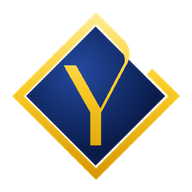
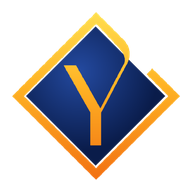
Replace the gold/yellow accents with a yellow-orange blend
- Theme accents: --gold #e8850f (orange) and --gold2 #ffb52e (warm
  yellow), with matching rgba tints, hover and skyline tones, on the
  home, admin and policy pages.
- Gold buttons, the Cart button and the stats strip use a yellow to
  orange gradient with navy text; the cart count badge is navy.
- Logo, About emblem, favicon/app icons and the share image are rebuilt
  with a yellow-to-orange gradient on the diamond, Y and tagline.

Claude-Session: https://claude.ai/code/session_019fR4sLVusZETjKJSMH7WGi

diff --git a/index.html b/index.html
@@ -123,7 +123,7 @@
 <link href="https://fonts.googleapis.com/css2?family=Playfair+Display:wght@500;600;700;800&family=Inter:wght@400;500;600;700&family=Tajawal:wght@400;500;700&family=El+Messiri:wght@500;600;700&display=swap" rel="stylesheet">
 <style>
 :root{
-  --green:#0d2352; --green2:#183a7a; --gold:#c8963e; --gold2:#e6b96a;
+  --green:#0d2352; --green2:#183a7a; --gold:#e8850f; --gold2:#ffb52e;
   --cream:#faf5ea; --sand:#f1e8d4; --ink:#1d1d1b; --muted:#6b675c; --white:#fff;
   --r:18px; --shadow:0 10px 30px rgba(13,35,82,.12);
 }
@@ -140,17 +140,17 @@ section{padding:84px 0}
 .lead{color:var(--muted);max-width:640px;font-size:17px}
 .center{text-align:center}.center .lead{margin:0 auto}
 .btn{display:inline-flex;align-items:center;gap:8px;padding:14px 28px;border-radius:999px;font-weight:600;font-size:15px;border:0;cursor:pointer;transition:.25s;font-family:inherit}
-.btn-gold{background:var(--gold);color:#fff}.btn-gold:hover{background:#b08330;transform:translateY(-2px)}
+.btn-gold{background:linear-gradient(135deg,#ffc93c 0%,#f7891f 100%);color:var(--green)}.btn-gold:hover{background:linear-gradient(135deg,#ffb52e,#e8750f);transform:translateY(-2px)}
 .btn-ghost{border:1.5px solid rgba(255,255,255,.55);color:#fff;background:transparent}.btn-ghost:hover{background:#fff;color:var(--green)}
 .btn-green{background:var(--green);color:#fff}.btn-green:hover{background:var(--green2)}
 
 /* top bar + nav */
 .topbar{background:var(--green);color:#e9e2cf;font-size:13px;padding:8px 0}
 .topbar .wrap{display:flex;justify-content:space-between;gap:12px;flex-wrap:wrap}
-header{position:sticky;top:0;z-index:50;background:rgba(7,18,42,.96);backdrop-filter:blur(12px);border-bottom:1px solid rgba(230,185,106,.25)}
-.logo{height:56px;width:auto;display:block;filter:drop-shadow(0 0 10px rgba(246,196,0,.22)) drop-shadow(0 2px 3px rgba(0,0,0,.35));transition:transform .3s,filter .3s}
+header{position:sticky;top:0;z-index:50;background:rgba(7,18,42,.96);backdrop-filter:blur(12px);border-bottom:1px solid rgba(255,181,46,.25)}
+.logo{height:56px;width:auto;display:block;filter:drop-shadow(0 0 10px rgba(255,170,30,.22)) drop-shadow(0 2px 3px rgba(0,0,0,.35));transition:transform .3s,filter .3s}
 .brand{position:relative;display:flex}
-.brand:hover .logo{transform:scale(1.04);filter:drop-shadow(0 0 14px rgba(246,196,0,.38)) drop-shadow(0 2px 3px rgba(0,0,0,.35))}
+.brand:hover .logo{transform:scale(1.04);filter:drop-shadow(0 0 14px rgba(255,170,30,.38)) drop-shadow(0 2px 3px rgba(0,0,0,.35))}
 .brand:after{content:"";position:absolute;inset:0;pointer-events:none;background:linear-gradient(105deg,transparent 40%,rgba(255,255,255,.7) 50%,transparent 60%) no-repeat;background-size:250% 100%;background-position:160% 0;
   -webkit-mask:url(images/logo.png) center/contain no-repeat;mask:url(images/logo.png) center/contain no-repeat;animation:logoShine 7s ease-in-out 1.2s infinite}
 @keyframes logoShine{0%{background-position:160% 0}22%,100%{background-position:-60% 0}}
@@ -165,30 +165,30 @@ nav ul{display:flex;gap:26px;list-style:none;align-items:center}
 nav a.link{font-size:14.5px;font-weight:500;color:#e9e2cf;position:relative}
 nav a.link:after{content:"";position:absolute;left:0;bottom:-6px;height:2px;width:0;background:var(--gold);transition:.25s}
 nav a.link:hover:after{width:100%}
-.cart-btn{position:relative;background:var(--gold);color:#fff;border:0;border-radius:999px;padding:10px 18px;font-weight:600;cursor:pointer;font-family:inherit;font-size:14px}
-.cart-btn span{position:absolute;top:-7px;right:-5px;background:var(--gold);color:#fff;font-size:11px;min-width:20px;height:20px;border-radius:20px;display:grid;place-items:center;padding:0 5px}
+.cart-btn{position:relative;background:linear-gradient(135deg,#ffc93c 0%,#f7891f 100%);color:var(--green);border:0;border-radius:999px;padding:10px 18px;font-weight:600;cursor:pointer;font-family:inherit;font-size:14px}
+.cart-btn span{position:absolute;top:-7px;right:-5px;background:var(--green);color:#fff;font-size:11px;min-width:20px;height:20px;border-radius:20px;display:grid;place-items:center;padding:0 5px}
 .burger{display:none;background:none;border:0;font-size:26px;cursor:pointer;color:#fff}
 
 /* hero */
 .hero{position:relative;background:radial-gradient(1200px 600px at 80% -10%,#2b4c94 0%,transparent 60%),linear-gradient(135deg,#0a1b3f,#0d2352 55%,#15306a);color:#fff;padding:100px 0 110px;overflow:hidden}
 .hero.has-photo{background:linear-gradient(100deg,rgba(7,20,48,.94) 0%,rgba(10,30,70,.86) 45%,rgba(13,35,82,.55) 100%),var(--hero-img) center/cover no-repeat}
 [dir=rtl] .hero.has-photo{background:linear-gradient(260deg,rgba(7,20,48,.94) 0%,rgba(10,30,70,.86) 45%,rgba(13,35,82,.55) 100%),var(--hero-img) center/cover no-repeat}
-.hero:before{content:"";position:absolute;inset:0;background-image:radial-gradient(rgba(230,185,106,.14) 1.2px,transparent 1.2px);background-size:26px 26px;mask-image:linear-gradient(to bottom,#000,transparent 85%)}
+.hero:before{content:"";position:absolute;inset:0;background-image:radial-gradient(rgba(255,181,46,.14) 1.2px,transparent 1.2px);background-size:26px 26px;mask-image:linear-gradient(to bottom,#000,transparent 85%)}
 .hero .wrap{position:relative;display:grid;grid-template-columns:1.15fr .85fr;gap:50px;align-items:center}
-.badge{display:inline-flex;gap:8px;align-items:center;border:1px solid rgba(230,185,106,.5);color:var(--gold2);padding:7px 16px;border-radius:999px;font-size:13px;font-weight:500;margin-bottom:22px}
+.badge{display:inline-flex;gap:8px;align-items:center;border:1px solid rgba(255,181,46,.5);color:var(--gold2);padding:7px 16px;border-radius:999px;font-size:13px;font-weight:500;margin-bottom:22px}
 .hero h1{font-size:clamp(38px,6vw,68px);font-weight:700;margin-bottom:20px}
 .hero h1 em{color:var(--gold2);font-style:italic}
 .hero p{color:#d8deea;font-size:18px;max-width:540px;margin-bottom:30px}
 .hero-cta{display:flex;gap:14px;flex-wrap:wrap}
-.hero-card{background:rgba(255,255,255,.07);border:1px solid rgba(230,185,106,.3);border-radius:28px;padding:30px;backdrop-filter:blur(8px)}
+.hero-card{background:rgba(255,255,255,.07);border:1px solid rgba(255,181,46,.3);border-radius:28px;padding:30px;backdrop-filter:blur(8px)}
 .hero-grid{display:grid;grid-template-columns:repeat(3,1fr);gap:14px}
 .hero-grid div{aspect-ratio:1;border-radius:18px;display:grid;place-items:center;font-size:44px;background:rgba(255,255,255,.08);transition:.3s}
-.hero-grid div:hover{transform:translateY(-5px) rotate(-3deg);background:rgba(230,185,106,.22)}
+.hero-grid div:hover{transform:translateY(-5px) rotate(-3deg);background:rgba(255,181,46,.22)}
 .hero-card p{margin:20px 0 0;font-size:14px;color:#cdd5e6}
 
 /* trust strip */
 .uae-bar{height:8px;background:linear-gradient(90deg,#ef3340 0 25%,#00843d 25% 50%,#fff 50% 75%,#111 75% 100%)}
-.strip{background:var(--gold);color:#fff}
+.strip{background:linear-gradient(135deg,#ffc93c 0%,#f7891f 100%);color:var(--green)}
 .strip .wrap{display:grid;grid-template-columns:repeat(4,1fr);gap:10px;padding-top:22px;padding-bottom:22px;text-align:center}
 .strip b{font-family:'Playfair Display';font-size:28px;display:block}
 .strip span{font-size:13px;letter-spacing:.06em;opacity:.95}
@@ -198,7 +198,7 @@ nav a.link:hover:after{width:100%}
 .about-art{background:linear-gradient(145deg,var(--green),var(--green2));border-radius:30px;padding:46px;color:#fff;position:relative;overflow:hidden;box-shadow:var(--shadow)}
 .about-art .big{font-family:'Playfair Display';font-size:110px;line-height:1;color:var(--gold2);font-weight:800}
 .about-art p{color:#d8deea}
-.about-art:after{content:"";position:absolute;top:30px;right:40px;width:124px;height:124px;background:url(images/logo-mark.png) center/contain no-repeat;filter:drop-shadow(0 0 18px rgba(246,196,0,.25)) drop-shadow(0 8px 14px rgba(0,0,0,.3));pointer-events:none}
+.about-art:after{content:"";position:absolute;top:30px;right:40px;width:124px;height:124px;background:url(images/logo-mark.png) center/contain no-repeat;filter:drop-shadow(0 0 18px rgba(255,170,30,.25)) drop-shadow(0 8px 14px rgba(0,0,0,.3));pointer-events:none}
 [dir=rtl] .about-art:after{right:auto;left:40px}
 @media(max-width:520px){.about-art:after{top:18px;right:18px;width:62px;height:62px}[dir=rtl] .about-art:after{left:18px}.about-art .big{font-size:92px}}
 .about-art>*{position:relative;z-index:1}
@@ -254,11 +254,11 @@ nav a.link:hover:after{width:100%}
 @media(prefers-reduced-motion:reduce){.delivery-scene .van{animation:none;left:58%}.delivery-scene .bike{animation:none;left:18%}.delivery-scene .wheel{animation:none}}
 .delivery .title{color:#fff}.delivery .lead{color:#c8d1e3}
 .steps{display:grid;grid-template-columns:repeat(4,1fr);gap:20px;margin-top:44px}
-.step{background:rgba(255,255,255,.07);border:1px solid rgba(230,185,106,.25);border-radius:var(--r);padding:26px}
+.step{background:rgba(255,255,255,.07);border:1px solid rgba(255,181,46,.25);border-radius:var(--r);padding:26px}
 .step b{font-family:'Playfair Display';font-size:34px;color:var(--gold2);display:block}
 .step h4{font-size:18px;margin:6px 0}.step p{font-size:14px;color:#c8d1e3}
 .emirates{display:flex;flex-wrap:wrap;gap:10px;justify-content:center;margin-top:34px}
-.emirates span{border:1px solid rgba(230,185,106,.5);color:var(--gold2);padding:8px 18px;border-radius:999px;font-size:14px}
+.emirates span{border:1px solid rgba(255,181,46,.5);color:var(--gold2);padding:8px 18px;border-radius:999px;font-size:14px}
 
 /* contact */
 .contact{display:grid;grid-template-columns:1fr 1fr;gap:34px;margin-top:44px}
@@ -451,7 +451,7 @@ footer .cp{padding-top:20px;text-align:center;font-size:13px}
   <div class="emirates"><span data-ar="أبوظبي">Abu Dhabi</span><span data-ar="دبي">Dubai</span><span data-ar="الشارقة">Sharjah</span><span data-ar="عجمان">Ajman</span><span data-ar="أم القيوين">Umm Al Quwain</span><span data-ar="رأس الخيمة">Ras Al Khaimah</span><span data-ar="الفجيرة">Fujairah</span></div>
   <p style="margin-top:28px;color:#c8d1e3;font-size:14px" data-ar="توصيل مجاني للطلبات فوق &lt;span id=&quot;freeMin&quot;&gt;&lt;/span&gt; درهم · الدفع عند الاستلام متاح">Free delivery on orders above AED <span id="freeMin"></span> · Cash on delivery available</p>
 </div>
-<div class="delivery-scene"><svg class="sky" viewBox="0 0 1440 240" preserveAspectRatio="xMidYMax slice" aria-hidden="true"><g fill="#27355a"><rect x="0" y="141" width="46" height="59" rx="2"/><rect x="48" y="92" width="30" height="108" rx="2"/><rect x="61.5" y="78" width="3" height="14"/><rect x="80" y="133" width="58" height="67" rx="2"/><rect x="107.5" y="119" width="3" height="14"/><rect x="146" y="152" width="52" height="48" rx="2"/><rect x="170.5" y="138" width="3" height="14"/><rect x="208" y="153" width="53" height="47" rx="2"/><rect x="264" y="80" width="40" height="120" rx="2"/><rect x="306" y="154" width="51" height="46" rx="2"/><rect x="359" y="123" width="34" height="77" rx="2"/><rect x="403" y="87" width="33" height="113" rx="2"/><rect x="440" y="86" width="32" height="114" rx="2"/><rect x="477" y="148" width="49" height="52" rx="2"/><rect x="529" y="81" width="29" height="119" rx="2"/><rect x="542.0" y="67" width="3" height="14"/><rect x="568" y="120" width="53" height="80" rx="2"/><rect x="630" y="122" width="49" height="78" rx="2"/><rect x="653.0" y="108" width="3" height="14"/><rect x="683" y="150" width="41" height="50" rx="2"/><rect x="734" y="117" width="57" height="83" rx="2"/><rect x="797" y="145" width="30" height="55" rx="2"/><rect x="831" y="141" width="47" height="59" rx="2"/><rect x="886" y="151" width="28" height="49" rx="2"/><rect x="921" y="116" width="47" height="84" rx="2"/><rect x="977" y="149" width="30" height="51" rx="2"/><rect x="1016" y="153" width="30" height="47" rx="2"/><rect x="1052" y="124" width="54" height="76" rx="2"/><rect x="1113" y="101" width="27" height="99" rx="2"/><rect x="1143" y="153" width="57" height="47" rx="2"/><rect x="1170.0" y="139" width="3" height="14"/><rect x="1206" y="129" width="34" height="71" rx="2"/><rect x="1249" y="139" width="31" height="61" rx="2"/><rect x="1290" y="143" width="43" height="57" rx="2"/><rect x="1343" y="107" width="43" height="93" rx="2"/><rect x="1394" y="141" width="40" height="59" rx="2"/><rect x="1412.5" y="127" width="3" height="14"/><rect x="1438" y="131" width="40" height="69" rx="2"/><rect x="1456.5" y="117" width="3" height="14"/></g><g fill="#8a7a52"><g><title>Qasr Al Hosn</title><rect x="78" y="150" width="140" height="50"/><rect x="80" y="143" width="6" height="7"/><rect x="90" y="143" width="6" height="7"/><rect x="100" y="143" width="6" height="7"/><rect x="110" y="143" width="6" height="7"/><rect x="120" y="143" width="6" height="7"/><rect x="130" y="143" width="6" height="7"/><rect x="140" y="143" width="6" height="7"/><rect x="150" y="143" width="6" height="7"/><rect x="160" y="143" width="6" height="7"/><rect x="170" y="143" width="6" height="7"/><rect x="180" y="143" width="6" height="7"/><rect x="190" y="143" width="6" height="7"/><rect x="200" y="143" width="6" height="7"/><rect x="210" y="143" width="6" height="7"/><rect x="64" y="112" width="36" height="88" rx="16"/><rect x="66" y="105" width="5" height="7"/><rect x="74" y="105" width="5" height="7"/><rect x="82" y="105" width="5" height="7"/><rect x="90" y="105" width="5" height="7"/><rect x="184" y="98" width="38" height="102"/><rect x="184" y="90" width="6" height="8"/><rect x="193" y="90" width="6" height="8"/><rect x="202" y="90" width="6" height="8"/><rect x="211" y="90" width="6" height="8"/><rect x="134" y="168" width="22" height="32" rx="11" fill="#0b1d44"/></g><g><title>Sheikh Zayed Grand Mosque</title><rect x="282" y="160" width="176" height="40"/><ellipse cx="370" cy="150" rx="44" ry="40"/><rect x="368" y="96" width="4" height="16"/><circle cx="370" cy="96" r="3"/><ellipse cx="318" cy="160" rx="20" ry="18"/><rect x="316.5" y="132" width="3" height="10"/><ellipse cx="422" cy="160" rx="20" ry="18"/><rect x="420.5" y="132" width="3" height="10"/><rect x="268" y="72" width="9" height="128"/><rect x="266" y="96" width="13" height="5"/><rect x="266" y="130" width="13" height="5"/><path d="M268 72 L272.5 56 L277 72 Z"/><rect x="466" y="72" width="9" height="128"/><rect x="464" y="96" width="13" height="5"/><rect x="464" y="130" width="13" height="5"/><path d="M466 72 L470.5 56 L475 72 Z"/></g><g><title>Louvre Abu Dhabi</title><path d="M496 182 Q568 132 640 182 Z"/><rect x="520" y="182" width="96" height="18"/><rect x="566" y="182" width="4" height="18" fill="#0b1d44"/></g><g><title>Etihad Towers</title><path d="M662 200 V126 Q673 102 684 118 V200 Z"/><path d="M690 200 V100 Q701 76 712 92 V200 Z"/><path d="M718 200 V114 Q729 90 740 106 V200 Z"/><path d="M744 200 V134 Q755 110 766 126 V200 Z"/></g><g><title>Burj Khalifa</title><polygon points="810,6 812,34 815,58 818,82 823,110 828,136 834,160 840,182 846,200 774,200 780,182 786,160 792,136 797,110 802,82 805,58 808,34"/></g><g><title>Dubai Frame</title><path fill-rule="evenodd" d="M872 86 H948 V200 H872 Z M887 102 H933 V200 H887 Z"/><rect x="872" y="86" width="76" height="10"/></g><g><title>Museum of the Future</title><path fill-rule="evenodd" d="M970 160 a46 44 0 1 0 92 0 a46 44 0 1 0 -92 0 Z M998 156 a20 25 0 1 0 40 0 a20 25 0 1 0 -40 0 Z"/><rect x="984" y="190" width="64" height="10"/></g><g><title>Burj Al Arab</title><path d="M1102 200 V64 Q1186 104 1172 200 Z"/><rect x="1099" y="50" width="4" height="150"/><rect x="1152" y="128" width="26" height="4" rx="2"/></g><g><title>Palm trees</title><path d="M1222 200 Q1226 161.0 1224 122" stroke="#8a7a52" stroke-width="5" fill="none"/><path d="M1224 122 Q1211.0 122 1198 140" stroke="#8a7a52" stroke-width="4.5" fill="none" stroke-linecap="round"/><path d="M1224 122 Q1214.0 106 1204 124" stroke="#8a7a52" stroke-width="4.5" fill="none" stroke-linecap="round"/><path d="M1224 122 Q1224.0 98 1224 116" stroke="#8a7a52" stroke-width="4.5" fill="none" stroke-linecap="round"/><path d="M1224 122 Q1234.0 106 1244 124" stroke="#8a7a52" stroke-width="4.5" fill="none" stroke-linecap="round"/><path d="M1224 122 Q1237.0 122 1250 140" stroke="#8a7a52" stroke-width="4.5" fill="none" stroke-linecap="round"/><path d="M1262 200 Q1266 170.0 1264 140" stroke="#8a7a52" stroke-width="5" fill="none"/><path d="M1264 140 Q1251.0 140 1238 158" stroke="#8a7a52" stroke-width="4.5" fill="none" stroke-linecap="round"/><path d="M1264 140 Q1254.0 124 1244 142" stroke="#8a7a52" stroke-width="4.5" fill="none" stroke-linecap="round"/><path d="M1264 140 Q1264.0 116 1264 134" stroke="#8a7a52" stroke-width="4.5" fill="none" stroke-linecap="round"/><path d="M1264 140 Q1274.0 124 1284 142" stroke="#8a7a52" stroke-width="4.5" fill="none" stroke-linecap="round"/><path d="M1264 140 Q1277.0 140 1290 158" stroke="#8a7a52" stroke-width="4.5" fill="none" stroke-linecap="round"/><path d="M1388 200 Q1392 158.0 1390 116" stroke="#8a7a52" stroke-width="5" fill="none"/><path d="M1390 116 Q1377.0 116 1364 134" stroke="#8a7a52" stroke-width="4.5" fill="none" stroke-linecap="round"/><path d="M1390 116 Q1380.0 100 1370 118" stroke="#8a7a52" stroke-width="4.5" fill="none" stroke-linecap="round"/><path d="M1390 116 Q1390.0 92 1390 110" stroke="#8a7a52" stroke-width="4.5" fill="none" stroke-linecap="round"/><path d="M1390 116 Q1400.0 100 1410 118" stroke="#8a7a52" stroke-width="4.5" fill="none" stroke-linecap="round"/><path d="M1390 116 Q1403.0 116 1416 134" stroke="#8a7a52" stroke-width="4.5" fill="none" stroke-linecap="round"/></g><g><title>Mosque</title><rect x="1296" y="170" width="64" height="30"/><ellipse cx="1328" cy="168" rx="24" ry="22"/><rect x="1370" y="110" width="7" height="90"/><path d="M1370 110 L1373.5 98 L1377 110 Z"/></g></g><rect x="0" y="200" width="1440" height="40" fill="rgba(0,0,0,.28)"/><rect x="0" y="200" width="1440" height="2" fill="rgba(230,185,106,.55)"/><line x1="0" y1="220" x2="1440" y2="220" stroke="rgba(255,255,255,.35)" stroke-width="2" stroke-dasharray="26 18"/></svg><svg class="bike" viewBox="0 0 110 80" aria-label="Delivery motorbike" role="img"><ellipse cx="55" cy="75" rx="46" ry="3.5" fill="rgba(0,0,0,.22)"/><rect x="10" y="22" width="34" height="28" rx="4" fill="#e6b96a"/><rect x="10" y="22" width="34" height="6" rx="3" fill="#c8963e"/><path d="M12 36 h30" stroke="#0b1f4b" stroke-width="2"/><path d="M30 58 L48 52 H72 L82 40 L90 42 L84 58 Z" fill="#0b1f4b"/><path d="M80 40 L86 26" stroke="#333" stroke-width="3" stroke-linecap="round"/><path d="M82 26 h9" stroke="#333" stroke-width="3" stroke-linecap="round"/><path d="M52 52 L58 32 L66 30 L70 44 Z" fill="#fffdf6"/><circle cx="62" cy="22" r="8" fill="#e6b96a"/><path d="M55 21 a7 7 0 0 1 14 0" fill="#0d2352"/><path d="M66 32 L80 36" stroke="#fffdf6" stroke-width="4" stroke-linecap="round"/><g class="wheel"><circle cx="28" cy="64" r="10" fill="#1b1b1b"/><circle cx="28" cy="64" r="5.0" fill="#c9c9c9"/><rect x="27" y="59.0" width="2" height="10.0" fill="#777"/><rect x="23.0" y="63" width="10.0" height="2" fill="#777"/></g><g class="wheel"><circle cx="86" cy="64" r="10" fill="#1b1b1b"/><circle cx="86" cy="64" r="5.0" fill="#c9c9c9"/><rect x="85" y="59.0" width="2" height="10.0" fill="#777"/><rect x="81.0" y="63" width="10.0" height="2" fill="#777"/></g></svg><svg class="van" viewBox="0 0 170 80" aria-label="Younus delivery van" role="img"><ellipse cx="86" cy="74" rx="78" ry="4" fill="rgba(0,0,0,.25)"/><rect x="4" y="6" width="112" height="54" rx="6" fill="#fffdf6"/><rect x="4" y="40" width="112" height="7" fill="#e6b96a"/><rect x="4" y="47" width="112" height="3" fill="#0b1f4b"/><path d="M116 18 H140 Q150 18 155 30 L163 44 Q166 48 166 54 V60 H116 Z" fill="#fffdf6"/><path d="M121 23 H139 Q145 23 148 30 L153 40 H121 Z" fill="#9fd3e8"/><rect x="116" y="40" width="50" height="7" fill="#e6b96a"/><rect x="116" y="47" width="50" height="3" fill="#0b1f4b"/><rect x="158" y="48" width="8" height="5" rx="2" fill="#ffd54a"/><rect x="2" y="46" width="4" height="7" rx="1" fill="#e2483d"/><g transform="translate(16 14)"><path d="M11 0 L22 11 L11 22 L0 11 Z" fill="#0b1f4b" stroke="#f6c400" stroke-width="2.4"/><path d="M7 6 L11 12 L15 6 M11 12 V17" stroke="#f6c400" stroke-width="2.2" fill="none"/></g><text x="77" y="28" text-anchor="middle" textLength="64" lengthAdjust="spacingAndGlyphs" font-family="Playfair Display,Georgia,serif" font-weight="700" font-size="15" fill="#0d2352">YOUNUS</text><text x="77" y="37" text-anchor="middle" textLength="64" lengthAdjust="spacingAndGlyphs" font-family="Inter,sans-serif" font-weight="600" font-size="6.5" fill="#6b675c">FOODSTUFF TRADING</text><g class="wheel"><circle cx="34" cy="62" r="11" fill="#1b1b1b"/><circle cx="34" cy="62" r="5.5" fill="#c9c9c9"/><rect x="33" y="56.5" width="2" height="11.0" fill="#777"/><rect x="28.5" y="61" width="11.0" height="2" fill="#777"/></g><g class="wheel"><circle cx="138" cy="62" r="11" fill="#1b1b1b"/><circle cx="138" cy="62" r="5.5" fill="#c9c9c9"/><rect x="137" y="56.5" width="2" height="11.0" fill="#777"/><rect x="132.5" y="61" width="11.0" height="2" fill="#777"/></g></svg></div>
+<div class="delivery-scene"><svg class="sky" viewBox="0 0 1440 240" preserveAspectRatio="xMidYMax slice" aria-hidden="true"><g fill="#27355a"><rect x="0" y="141" width="46" height="59" rx="2"/><rect x="48" y="92" width="30" height="108" rx="2"/><rect x="61.5" y="78" width="3" height="14"/><rect x="80" y="133" width="58" height="67" rx="2"/><rect x="107.5" y="119" width="3" height="14"/><rect x="146" y="152" width="52" height="48" rx="2"/><rect x="170.5" y="138" width="3" height="14"/><rect x="208" y="153" width="53" height="47" rx="2"/><rect x="264" y="80" width="40" height="120" rx="2"/><rect x="306" y="154" width="51" height="46" rx="2"/><rect x="359" y="123" width="34" height="77" rx="2"/><rect x="403" y="87" width="33" height="113" rx="2"/><rect x="440" y="86" width="32" height="114" rx="2"/><rect x="477" y="148" width="49" height="52" rx="2"/><rect x="529" y="81" width="29" height="119" rx="2"/><rect x="542.0" y="67" width="3" height="14"/><rect x="568" y="120" width="53" height="80" rx="2"/><rect x="630" y="122" width="49" height="78" rx="2"/><rect x="653.0" y="108" width="3" height="14"/><rect x="683" y="150" width="41" height="50" rx="2"/><rect x="734" y="117" width="57" height="83" rx="2"/><rect x="797" y="145" width="30" height="55" rx="2"/><rect x="831" y="141" width="47" height="59" rx="2"/><rect x="886" y="151" width="28" height="49" rx="2"/><rect x="921" y="116" width="47" height="84" rx="2"/><rect x="977" y="149" width="30" height="51" rx="2"/><rect x="1016" y="153" width="30" height="47" rx="2"/><rect x="1052" y="124" width="54" height="76" rx="2"/><rect x="1113" y="101" width="27" height="99" rx="2"/><rect x="1143" y="153" width="57" height="47" rx="2"/><rect x="1170.0" y="139" width="3" height="14"/><rect x="1206" y="129" width="34" height="71" rx="2"/><rect x="1249" y="139" width="31" height="61" rx="2"/><rect x="1290" y="143" width="43" height="57" rx="2"/><rect x="1343" y="107" width="43" height="93" rx="2"/><rect x="1394" y="141" width="40" height="59" rx="2"/><rect x="1412.5" y="127" width="3" height="14"/><rect x="1438" y="131" width="40" height="69" rx="2"/><rect x="1456.5" y="117" width="3" height="14"/></g><g fill="#a07a3e"><g><title>Qasr Al Hosn</title><rect x="78" y="150" width="140" height="50"/><rect x="80" y="143" width="6" height="7"/><rect x="90" y="143" width="6" height="7"/><rect x="100" y="143" width="6" height="7"/><rect x="110" y="143" width="6" height="7"/><rect x="120" y="143" width="6" height="7"/><rect x="130" y="143" width="6" height="7"/><rect x="140" y="143" width="6" height="7"/><rect x="150" y="143" width="6" height="7"/><rect x="160" y="143" width="6" height="7"/><rect x="170" y="143" width="6" height="7"/><rect x="180" y="143" width="6" height="7"/><rect x="190" y="143" width="6" height="7"/><rect x="200" y="143" width="6" height="7"/><rect x="210" y="143" width="6" height="7"/><rect x="64" y="112" width="36" height="88" rx="16"/><rect x="66" y="105" width="5" height="7"/><rect x="74" y="105" width="5" height="7"/><rect x="82" y="105" width="5" height="7"/><rect x="90" y="105" width="5" height="7"/><rect x="184" y="98" width="38" height="102"/><rect x="184" y="90" width="6" height="8"/><rect x="193" y="90" width="6" height="8"/><rect x="202" y="90" width="6" height="8"/><rect x="211" y="90" width="6" height="8"/><rect x="134" y="168" width="22" height="32" rx="11" fill="#0b1d44"/></g><g><title>Sheikh Zayed Grand Mosque</title><rect x="282" y="160" width="176" height="40"/><ellipse cx="370" cy="150" rx="44" ry="40"/><rect x="368" y="96" width="4" height="16"/><circle cx="370" cy="96" r="3"/><ellipse cx="318" cy="160" rx="20" ry="18"/><rect x="316.5" y="132" width="3" height="10"/><ellipse cx="422" cy="160" rx="20" ry="18"/><rect x="420.5" y="132" width="3" height="10"/><rect x="268" y="72" width="9" height="128"/><rect x="266" y="96" width="13" height="5"/><rect x="266" y="130" width="13" height="5"/><path d="M268 72 L272.5 56 L277 72 Z"/><rect x="466" y="72" width="9" height="128"/><rect x="464" y="96" width="13" height="5"/><rect x="464" y="130" width="13" height="5"/><path d="M466 72 L470.5 56 L475 72 Z"/></g><g><title>Louvre Abu Dhabi</title><path d="M496 182 Q568 132 640 182 Z"/><rect x="520" y="182" width="96" height="18"/><rect x="566" y="182" width="4" height="18" fill="#0b1d44"/></g><g><title>Etihad Towers</title><path d="M662 200 V126 Q673 102 684 118 V200 Z"/><path d="M690 200 V100 Q701 76 712 92 V200 Z"/><path d="M718 200 V114 Q729 90 740 106 V200 Z"/><path d="M744 200 V134 Q755 110 766 126 V200 Z"/></g><g><title>Burj Khalifa</title><polygon points="810,6 812,34 815,58 818,82 823,110 828,136 834,160 840,182 846,200 774,200 780,182 786,160 792,136 797,110 802,82 805,58 808,34"/></g><g><title>Dubai Frame</title><path fill-rule="evenodd" d="M872 86 H948 V200 H872 Z M887 102 H933 V200 H887 Z"/><rect x="872" y="86" width="76" height="10"/></g><g><title>Museum of the Future</title><path fill-rule="evenodd" d="M970 160 a46 44 0 1 0 92 0 a46 44 0 1 0 -92 0 Z M998 156 a20 25 0 1 0 40 0 a20 25 0 1 0 -40 0 Z"/><rect x="984" y="190" width="64" height="10"/></g><g><title>Burj Al Arab</title><path d="M1102 200 V64 Q1186 104 1172 200 Z"/><rect x="1099" y="50" width="4" height="150"/><rect x="1152" y="128" width="26" height="4" rx="2"/></g><g><title>Palm trees</title><path d="M1222 200 Q1226 161.0 1224 122" stroke="#a07a3e" stroke-width="5" fill="none"/><path d="M1224 122 Q1211.0 122 1198 140" stroke="#a07a3e" stroke-width="4.5" fill="none" stroke-linecap="round"/><path d="M1224 122 Q1214.0 106 1204 124" stroke="#a07a3e" stroke-width="4.5" fill="none" stroke-linecap="round"/><path d="M1224 122 Q1224.0 98 1224 116" stroke="#a07a3e" stroke-width="4.5" fill="none" stroke-linecap="round"/><path d="M1224 122 Q1234.0 106 1244 124" stroke="#a07a3e" stroke-width="4.5" fill="none" stroke-linecap="round"/><path d="M1224 122 Q1237.0 122 1250 140" stroke="#a07a3e" stroke-width="4.5" fill="none" stroke-linecap="round"/><path d="M1262 200 Q1266 170.0 1264 140" stroke="#a07a3e" stroke-width="5" fill="none"/><path d="M1264 140 Q1251.0 140 1238 158" stroke="#a07a3e" stroke-width="4.5" fill="none" stroke-linecap="round"/><path d="M1264 140 Q1254.0 124 1244 142" stroke="#a07a3e" stroke-width="4.5" fill="none" stroke-linecap="round"/><path d="M1264 140 Q1264.0 116 1264 134" stroke="#a07a3e" stroke-width="4.5" fill="none" stroke-linecap="round"/><path d="M1264 140 Q1274.0 124 1284 142" stroke="#a07a3e" stroke-width="4.5" fill="none" stroke-linecap="round"/><path d="M1264 140 Q1277.0 140 1290 158" stroke="#a07a3e" stroke-width="4.5" fill="none" stroke-linecap="round"/><path d="M1388 200 Q1392 158.0 1390 116" stroke="#a07a3e" stroke-width="5" fill="none"/><path d="M1390 116 Q1377.0 116 1364 134" stroke="#a07a3e" stroke-width="4.5" fill="none" stroke-linecap="round"/><path d="M1390 116 Q1380.0 100 1370 118" stroke="#a07a3e" stroke-width="4.5" fill="none" stroke-linecap="round"/><path d="M1390 116 Q1390.0 92 1390 110" stroke="#a07a3e" stroke-width="4.5" fill="none" stroke-linecap="round"/><path d="M1390 116 Q1400.0 100 1410 118" stroke="#a07a3e" stroke-width="4.5" fill="none" stroke-linecap="round"/><path d="M1390 116 Q1403.0 116 1416 134" stroke="#a07a3e" stroke-width="4.5" fill="none" stroke-linecap="round"/></g><g><title>Mosque</title><rect x="1296" y="170" width="64" height="30"/><ellipse cx="1328" cy="168" rx="24" ry="22"/><rect x="1370" y="110" width="7" height="90"/><path d="M1370 110 L1373.5 98 L1377 110 Z"/></g></g><rect x="0" y="200" width="1440" height="40" fill="rgba(0,0,0,.28)"/><rect x="0" y="200" width="1440" height="2" fill="rgba(255,181,46,.55)"/><line x1="0" y1="220" x2="1440" y2="220" stroke="rgba(255,255,255,.35)" stroke-width="2" stroke-dasharray="26 18"/></svg><svg class="bike" viewBox="0 0 110 80" aria-label="Delivery motorbike" role="img"><ellipse cx="55" cy="75" rx="46" ry="3.5" fill="rgba(0,0,0,.22)"/><rect x="10" y="22" width="34" height="28" rx="4" fill="#ffb52e"/><rect x="10" y="22" width="34" height="6" rx="3" fill="#e8850f"/><path d="M12 36 h30" stroke="#0b1f4b" stroke-width="2"/><path d="M30 58 L48 52 H72 L82 40 L90 42 L84 58 Z" fill="#0b1f4b"/><path d="M80 40 L86 26" stroke="#333" stroke-width="3" stroke-linecap="round"/><path d="M82 26 h9" stroke="#333" stroke-width="3" stroke-linecap="round"/><path d="M52 52 L58 32 L66 30 L70 44 Z" fill="#fffdf6"/><circle cx="62" cy="22" r="8" fill="#ffb52e"/><path d="M55 21 a7 7 0 0 1 14 0" fill="#0d2352"/><path d="M66 32 L80 36" stroke="#fffdf6" stroke-width="4" stroke-linecap="round"/><g class="wheel"><circle cx="28" cy="64" r="10" fill="#1b1b1b"/><circle cx="28" cy="64" r="5.0" fill="#c9c9c9"/><rect x="27" y="59.0" width="2" height="10.0" fill="#777"/><rect x="23.0" y="63" width="10.0" height="2" fill="#777"/></g><g class="wheel"><circle cx="86" cy="64" r="10" fill="#1b1b1b"/><circle cx="86" cy="64" r="5.0" fill="#c9c9c9"/><rect x="85" y="59.0" width="2" height="10.0" fill="#777"/><rect x="81.0" y="63" width="10.0" height="2" fill="#777"/></g></svg><svg class="van" viewBox="0 0 170 80" aria-label="Younus delivery van" role="img"><ellipse cx="86" cy="74" rx="78" ry="4" fill="rgba(0,0,0,.25)"/><rect x="4" y="6" width="112" height="54" rx="6" fill="#fffdf6"/><rect x="4" y="40" width="112" height="7" fill="#ffb52e"/><rect x="4" y="47" width="112" height="3" fill="#0b1f4b"/><path d="M116 18 H140 Q150 18 155 30 L163 44 Q166 48 166 54 V60 H116 Z" fill="#fffdf6"/><path d="M121 23 H139 Q145 23 148 30 L153 40 H121 Z" fill="#9fd3e8"/><rect x="116" y="40" width="50" height="7" fill="#ffb52e"/><rect x="116" y="47" width="50" height="3" fill="#0b1f4b"/><rect x="158" y="48" width="8" height="5" rx="2" fill="#ffd54a"/><rect x="2" y="46" width="4" height="7" rx="1" fill="#e2483d"/><g transform="translate(16 14)"><path d="M11 0 L22 11 L11 22 L0 11 Z" fill="#0b1f4b" stroke="#ffb800" stroke-width="2.4"/><path d="M7 6 L11 12 L15 6 M11 12 V17" stroke="#ffb800" stroke-width="2.2" fill="none"/></g><text x="77" y="28" text-anchor="middle" textLength="64" lengthAdjust="spacingAndGlyphs" font-family="Playfair Display,Georgia,serif" font-weight="700" font-size="15" fill="#0d2352">YOUNUS</text><text x="77" y="37" text-anchor="middle" textLength="64" lengthAdjust="spacingAndGlyphs" font-family="Inter,sans-serif" font-weight="600" font-size="6.5" fill="#6b675c">FOODSTUFF TRADING</text><g class="wheel"><circle cx="34" cy="62" r="11" fill="#1b1b1b"/><circle cx="34" cy="62" r="5.5" fill="#c9c9c9"/><rect x="33" y="56.5" width="2" height="11.0" fill="#777"/><rect x="28.5" y="61" width="11.0" height="2" fill="#777"/></g><g class="wheel"><circle cx="138" cy="62" r="11" fill="#1b1b1b"/><circle cx="138" cy="62" r="5.5" fill="#c9c9c9"/><rect x="137" y="56.5" width="2" height="11.0" fill="#777"/><rect x="132.5" y="61" width="11.0" height="2" fill="#777"/></g></svg></div>
 </section>
 
 <section id="contact"><div class="wrap">

diff --git a/admin/index.html b/admin/index.html
@@ -12,7 +12,7 @@
 <link href="https://fonts.googleapis.com/css2?family=Inter:wght@400;500;600;700&family=Tajawal:wght@400;500;700&display=swap" rel="stylesheet">
 <style>
 :root{
-  --green:#0d2352; --green2:#183a7a; --gold:#c8963e; --gold2:#e6b96a;
+  --green:#0d2352; --green2:#183a7a; --gold:#e8850f; --gold2:#ffb52e;
   --cream:#faf5ea; --sand:#f1e8d4; --ink:#1d1d1b; --muted:#6b675c; --line:#e5dabf;
   --red:#a33a2a; --white:#fff; --r:14px;
 }
@@ -27,7 +27,7 @@ button,input,select,textarea{font:inherit}
 .top .right{display:flex;gap:8px;align-items:center}
 .btn{display:inline-flex;align-items:center;justify-content:center;gap:6px;border:0;border-radius:999px;padding:10px 18px;font-weight:600;font-size:14px;cursor:pointer;transition:.2s;text-decoration:none;white-space:nowrap}
 .btn:disabled{opacity:.5;cursor:not-allowed}
-.btn-gold{background:var(--gold);color:#fff}.btn-gold:hover:not(:disabled){background:#b08330}
+.btn-gold{background:var(--gold);color:#fff}.btn-gold:hover:not(:disabled){background:#d06f00}
 .btn-green{background:var(--green);color:#fff}.btn-green:hover:not(:disabled){background:var(--green2)}
 .btn-line{background:transparent;border:1.5px solid var(--line);color:var(--green)}.btn-line:hover{border-color:var(--green)}
 .btn-ghost{background:transparent;border:1.5px solid rgba(255,255,255,.4);color:#fff}.btn-ghost:hover{background:rgba(255,255,255,.1)}

diff --git a/privacy-policy/index.html b/privacy-policy/index.html
@@ -20,11 +20,11 @@
 <link rel="preconnect" href="https://fonts.gstatic.com" crossorigin>
 <link href="https://fonts.googleapis.com/css2?family=Playfair+Display:wght@600;700&family=Inter:wght@400;500;600&family=Tajawal:wght@400;500;700&family=El+Messiri:wght@600;700&display=swap" rel="stylesheet">
 <style>
-:root{--green:#0d2352;--gold:#c8963e;--gold2:#e6b96a;--cream:#faf5ea;--ink:#1d1d1b;--muted:#6b675c;--line:#eadfc6}
+:root{--green:#0d2352;--gold:#e8850f;--gold2:#ffb52e;--cream:#faf5ea;--ink:#1d1d1b;--muted:#6b675c;--line:#eadfc6}
 *{box-sizing:border-box;margin:0;padding:0}
 body{font-family:'Inter',system-ui,sans-serif;background:var(--cream);color:var(--ink);line-height:1.7;-webkit-font-smoothing:antialiased}
 a{color:var(--green)}
-header{background:rgba(7,18,42,.97);border-bottom:1px solid rgba(230,185,106,.25);position:sticky;top:0;z-index:5}
+header{background:rgba(7,18,42,.97);border-bottom:1px solid rgba(255,181,46,.25);position:sticky;top:0;z-index:5}
 .bar{max-width:900px;margin:0 auto;padding:0 18px;height:72px;display:flex;align-items:center;justify-content:space-between;gap:12px}
 .bar img{height:50px;display:block}
 .bar nav{display:flex;gap:10px;align-items:center}

diff --git a/return-policy/index.html b/return-policy/index.html
@@ -20,11 +20,11 @@
 <link rel="preconnect" href="https://fonts.gstatic.com" crossorigin>
 <link href="https://fonts.googleapis.com/css2?family=Playfair+Display:wght@600;700&family=Inter:wght@400;500;600&family=Tajawal:wght@400;500;700&family=El+Messiri:wght@600;700&display=swap" rel="stylesheet">
 <style>
-:root{--green:#0d2352;--gold:#c8963e;--gold2:#e6b96a;--cream:#faf5ea;--ink:#1d1d1b;--muted:#6b675c;--line:#eadfc6}
+:root{--green:#0d2352;--gold:#e8850f;--gold2:#ffb52e;--cream:#faf5ea;--ink:#1d1d1b;--muted:#6b675c;--line:#eadfc6}
 *{box-sizing:border-box;margin:0;padding:0}
 body{font-family:'Inter',system-ui,sans-serif;background:var(--cream);color:var(--ink);line-height:1.7;-webkit-font-smoothing:antialiased}
 a{color:var(--green)}
-header{background:rgba(7,18,42,.97);border-bottom:1px solid rgba(230,185,106,.25);position:sticky;top:0;z-index:5}
+header{background:rgba(7,18,42,.97);border-bottom:1px solid rgba(255,181,46,.25);position:sticky;top:0;z-index:5}
 .bar{max-width:900px;margin:0 auto;padding:0 18px;height:72px;display:flex;align-items:center;justify-content:space-between;gap:12px}
 .bar img{height:50px;display:block}
 .bar nav{display:flex;gap:10px;align-items:center}

diff --git a/terms/index.html b/terms/index.html
@@ -20,11 +20,11 @@
 <link rel="preconnect" href="https://fonts.gstatic.com" crossorigin>
 <link href="https://fonts.googleapis.com/css2?family=Playfair+Display:wght@600;700&family=Inter:wght@400;500;600&family=Tajawal:wght@400;500;700&family=El+Messiri:wght@600;700&display=swap" rel="stylesheet">
 <style>
-:root{--green:#0d2352;--gold:#c8963e;--gold2:#e6b96a;--cream:#faf5ea;--ink:#1d1d1b;--muted:#6b675c;--line:#eadfc6}
+:root{--green:#0d2352;--gold:#e8850f;--gold2:#ffb52e;--cream:#faf5ea;--ink:#1d1d1b;--muted:#6b675c;--line:#eadfc6}
 *{box-sizing:border-box;margin:0;padding:0}
 body{font-family:'Inter',system-ui,sans-serif;background:var(--cream);color:var(--ink);line-height:1.7;-webkit-font-smoothing:antialiased}
 a{color:var(--green)}
-header{background:rgba(7,18,42,.97);border-bottom:1px solid rgba(230,185,106,.25);position:sticky;top:0;z-index:5}
+header{background:rgba(7,18,42,.97);border-bottom:1px solid rgba(255,181,46,.25);position:sticky;top:0;z-index:5}
 .bar{max-width:900px;margin:0 auto;padding:0 18px;height:72px;display:flex;align-items:center;justify-content:space-between;gap:12px}
 .bar img{height:50px;display:block}
 .bar nav{display:flex;gap:10px;align-items:center}
